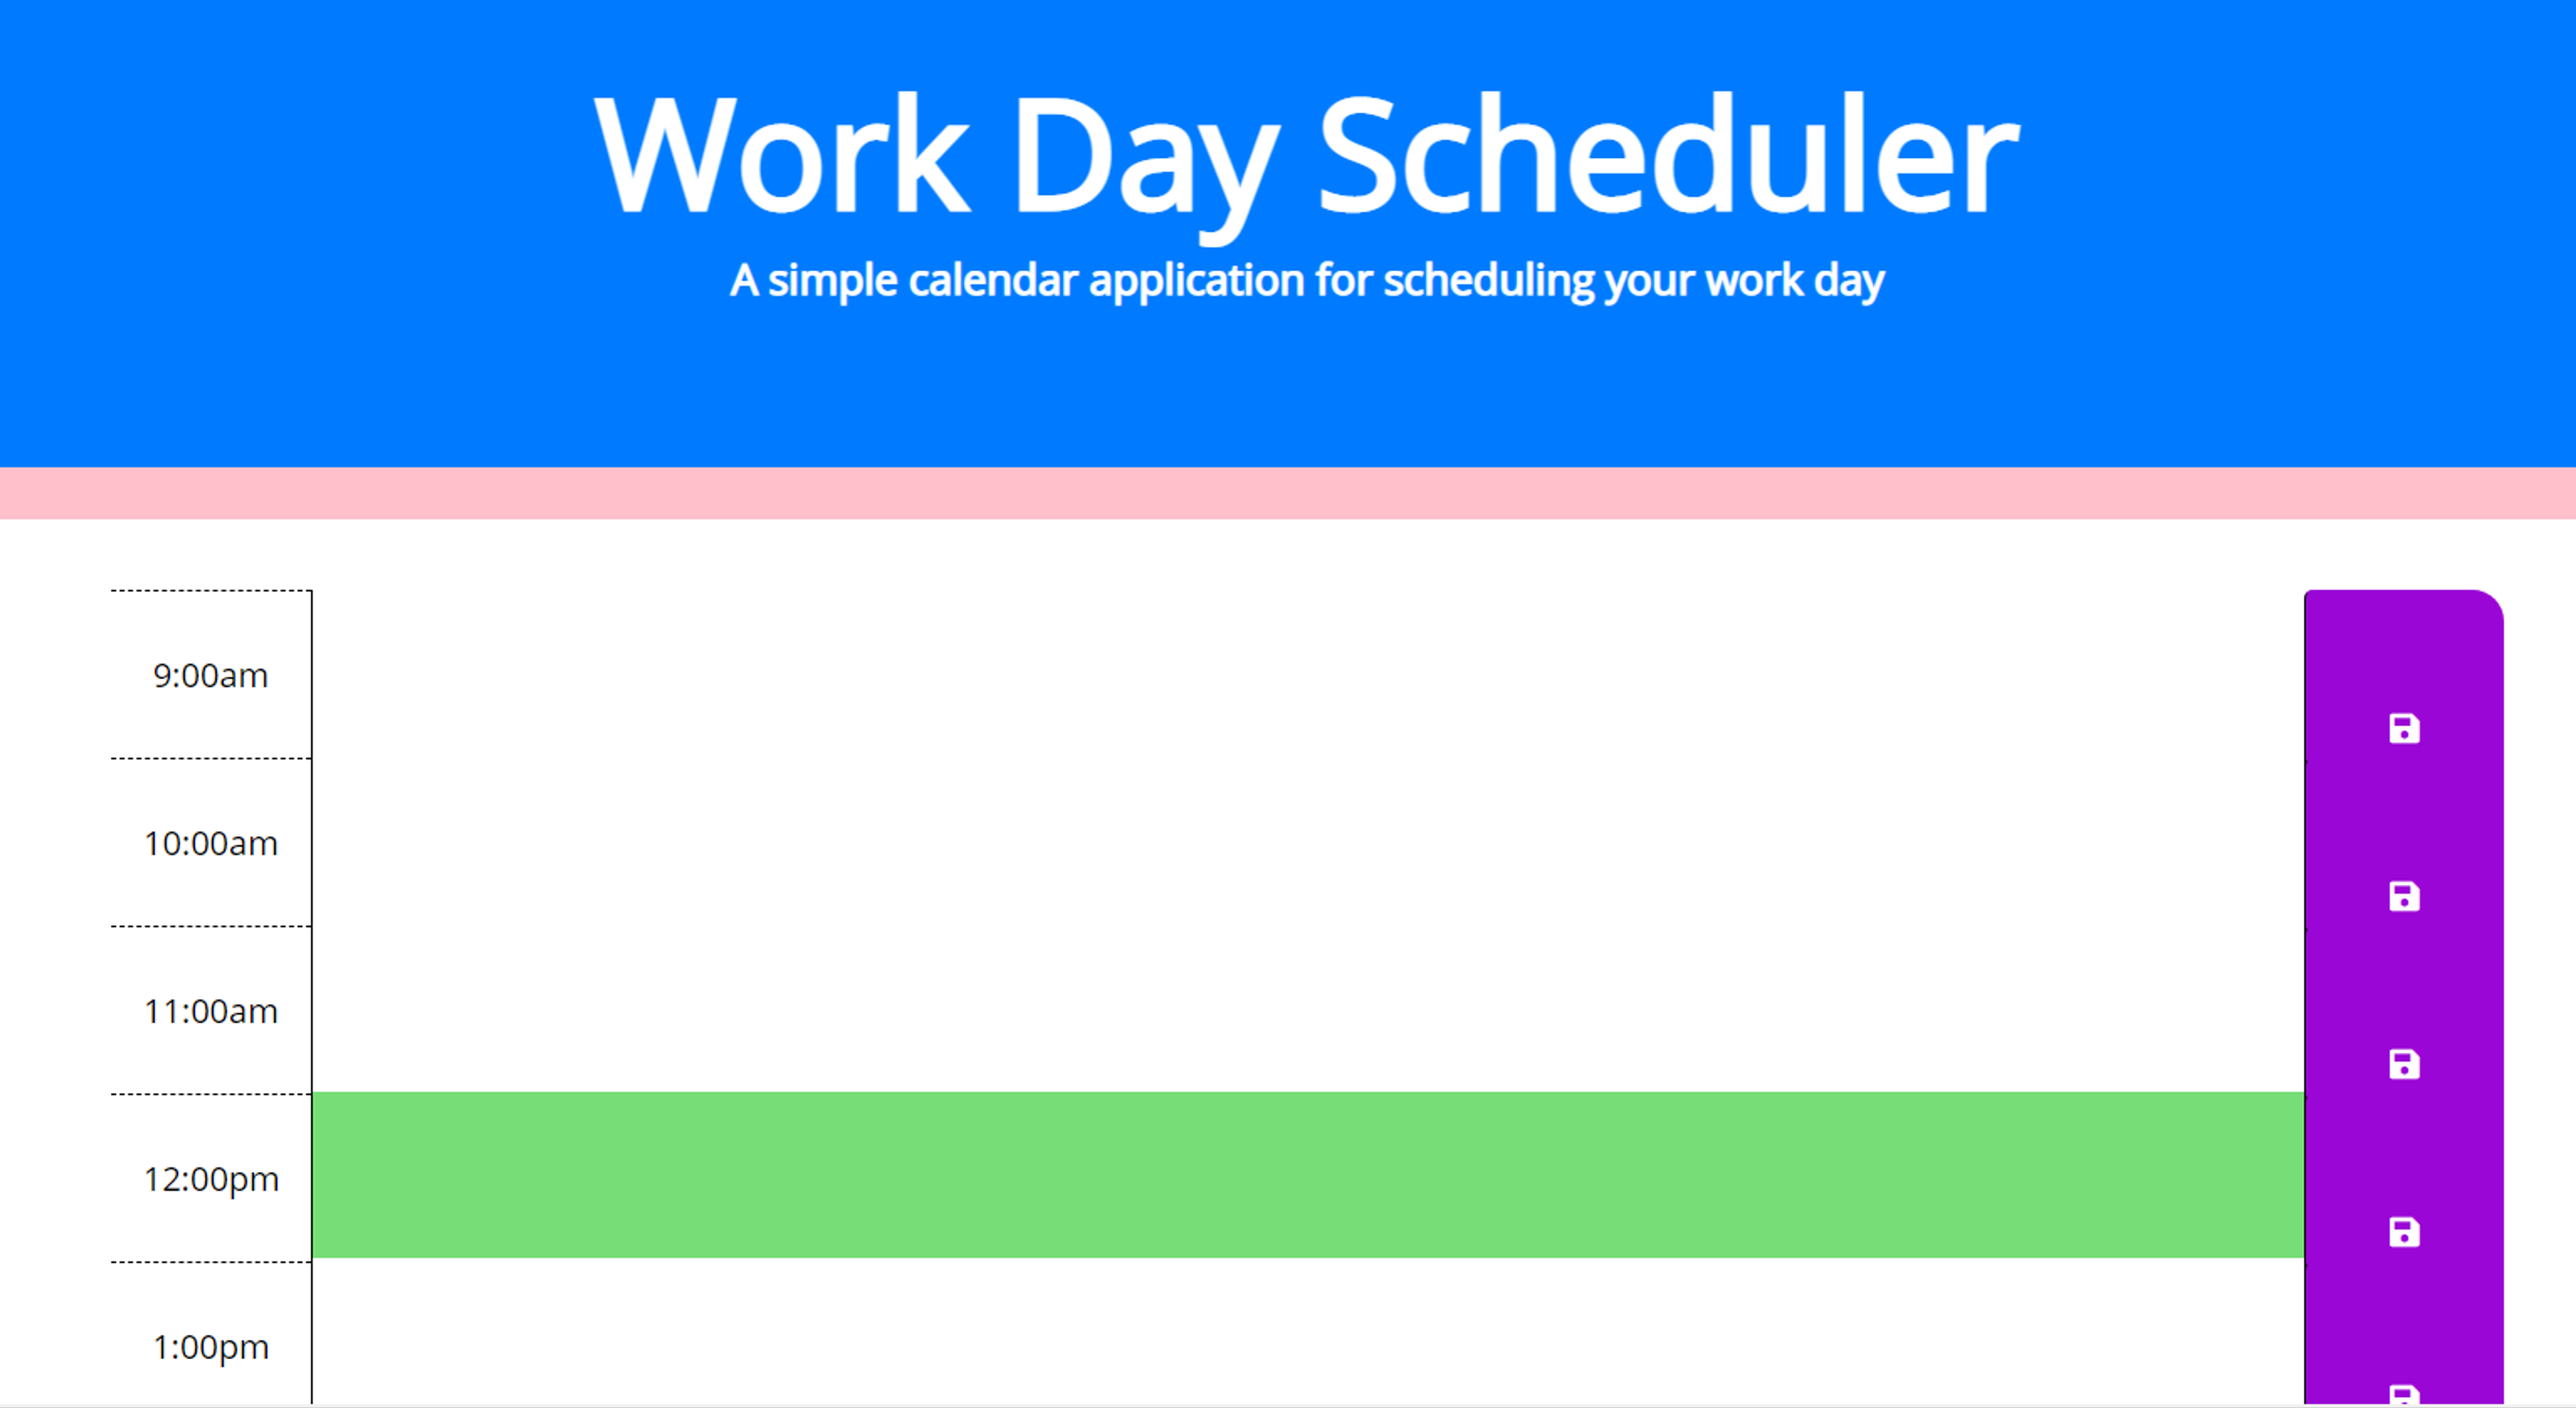
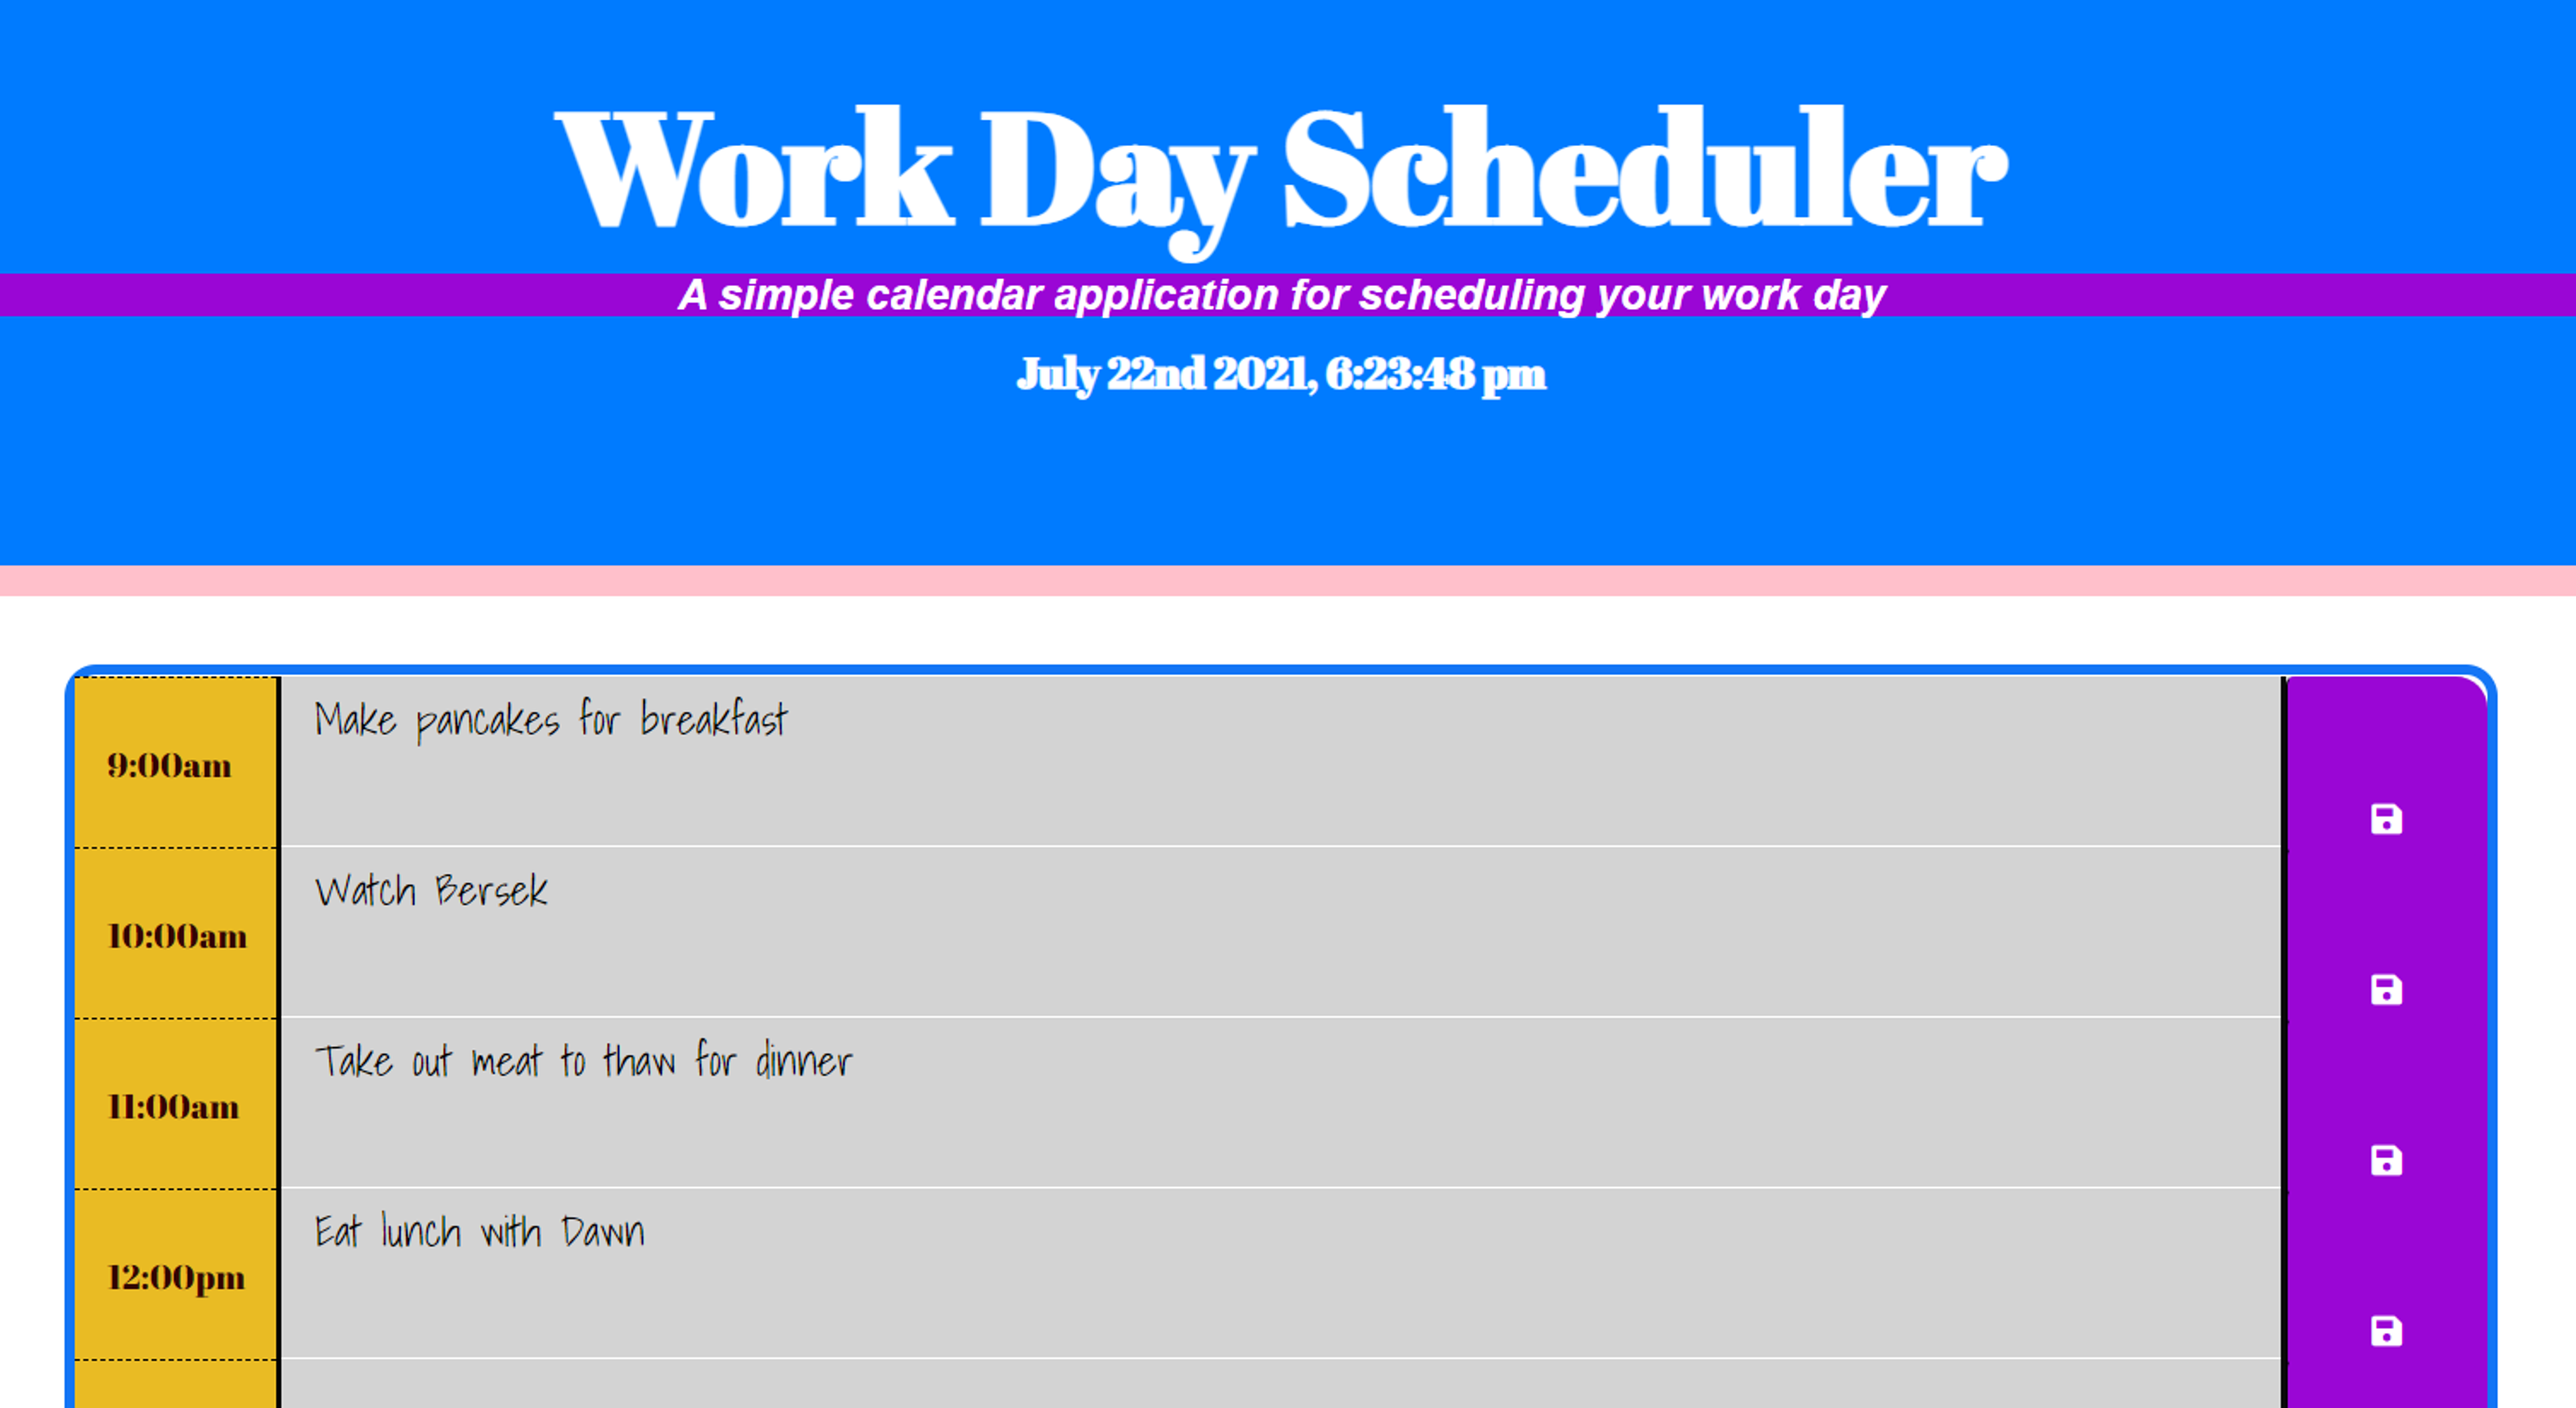
added new image of layout. Tried fixing text areas through css and html edits but couldnt figure it out. need help

diff --git a/index.html b/index.html
@@ -11,6 +11,9 @@
     <link rel="stylesheet" href="https://use.fontawesome.com/releases/v5.8.1/css/all.css"
         integrity="sha384-50oBUHEmvpQ+1lW4y57PTFmhCaXp0ML5d60M1M7uH2+nqUivzIebhndOJK28anvf" crossorigin="anonymous" />
     <link href="https://fonts.googleapis.com/css?family=Open+Sans&display=swap" rel="stylesheet" />
+    <link rel="preconnect" href="https://fonts.googleapis.com">
+    <link rel="preconnect" href="https://fonts.gstatic.com" crossorigin>
+    <link href="https://fonts.googleapis.com/css2?family=Abril+Fatface&family=Shadows+Into+Light&display=swap" rel="stylesheet">
     <link rel="stylesheet" href="style.css" />
    
     <!--Web page title-->
@@ -20,9 +23,9 @@
 <body>
     <!--Bootstrap jumbotron layout-->
     <header class="jumbotron bg-primary">
-        <h1 class="font-weight-bold text-white display-3">Work Day Scheduler</h1>
-        <p class="text-white font-weight-bold lead">A simple calendar application for scheduling your work day</p>
-        <p id="currentDay" class="text-white font-weight-bold lead"></p>
+        <h1 class="font-weight-bold text-white display-3 title">Work Day Scheduler</h1>
+        <p class="text-white font-weight-bold lead" id="subTitle">A simple calendar application for scheduling your work day</p>
+        <p id="currentDay" class="text-white font-weight-bold lead title"></p>
     </header>
     <div class="container">
 
@@ -30,7 +33,7 @@
         
         <div id="hour9" class="row time-block">
             <!--Single hour slot (taking up 1 section of 12)-->
-            <div class="col-md-1 hour">
+            <div class="col-md-1 hour title2">
                 9:00am
             </div>
             <!--Empty space for typing in text (taking up 10 sections of 12)-->
@@ -44,7 +47,7 @@
 
         <div id="hour10" class="row time-block">
             <!--Single hour slot (taking up 1 section of 12)-->
-            <div class="col-md-1 hour">
+            <div class="col-md-1 hour title2">
                 10:00am
             </div>
             <!--Empty space for typing in text (taking up 10 sections of 12)-->
@@ -58,7 +61,7 @@
 
         <div id="hour11" class="row time-block">
             <!--Single hour slot (taking up 1 section of 12)-->
-            <div class="col-md-1 hour">
+            <div class="col-md-1 hour title2">
                 11:00am
             </div>
             <!--Empty space for typing in text (taking up 10 sections of 12)-->
@@ -72,7 +75,7 @@
 
         <div id="hour12" class="row time-block past present future">
             <!--Single hour slot (taking up 1 section of 12)-->
-            <div class="col-md-1 hour">
+            <div class="col-md-1 hour title2">
                 12:00pm
             </div>
             <!--Empty space for typing in text (taking up 10 sections of 12)-->
@@ -84,9 +87,9 @@
             </button>
         </div>
 
-        <div id="hour13" class="row time-block">
+        <div id="hour13" class="row time-block title">
             <!--Single hour slot (taking up 1 section of 12)-->
-            <div class="col-md-1 hour">
+            <div class="col-md-1 hour title2">
                 1:00pm
             </div>
             <!--Empty space for typing in text (taking up 10 sections of 12)-->
@@ -100,7 +103,7 @@
 
         <div id="hour14" class="row time-block">
             <!--Single hour slot (taking up 1 section of 12)-->
-            <div class="col-md-1 hour">
+            <div class="col-md-1 hour title2">
                 2:00pm
             </div>
             <!--Empty space for typing in text (taking up 10 sections of 12)-->
@@ -114,7 +117,7 @@
 
         <div id="hour15" class="row time-block">
             <!--Single hour slot (taking up 1 section of 12)-->
-            <div class="col-md-1 hour">
+            <div class="col-md-1 hour title2">
                 3:00pm
             </div>
             <!--Empty space for typing in text (taking up 10 sections of 12)-->
@@ -128,7 +131,7 @@
 
         <div id="hour16" class="row time-block">
             <!--Single hour slot (taking up 1 section of 12)-->
-            <div class="col-md-1 hour">
+            <div class="col-md-1 hour title2">
                 4:00pm
             </div>
             <!--Empty space for typing in text (taking up 10 sections of 12)-->
@@ -142,7 +145,7 @@
 
         <div id="hour17" class="row time-block">
             <!--Single hour slot (taking up 1 section of 12)-->
-            <div class="col-md-1 hour">
+            <div class="col-md-1 hour title2">
                 5:00pm
             </div>
             <!--Empty space for typing in text (taking up 10 sections of 12)-->

diff --git a/style.css b/style.css
@@ -1,10 +1,36 @@
 /*Ensures entire body of html document has the following presets*/
 body {
-    font-family: 'Open Sans', sans-serif;
-    font-size: 16px;
+    font-family:'Shadows Into Light', cursive;;
+    font-size: 20px;
     line-height: 1;
   }
-  
+
+  /* Adding a border around the container div*/
+.container {
+  margin-bottom: 5%;
+  border: rgb(19, 117, 245) solid 5px;
+  border-radius: 15px;
+}
+
+/* styles font of the biggest title on the page "Work day Scheduler"*/
+.title {
+  font-family:'Abril Fatface', cursive;
+}
+
+/* Styles font of the times in the time slots*/
+.title2 {
+  font-family:'Abril Fatface', cursive; 
+  font-size: medium;
+}
+
+/* Adds custom font and background colour to subtitle*/
+#subTitle {
+  font-family: Arial, Helvetica, sans-serif;
+  font-style: italic;
+  font-size: normal;
+  background-color: #9a06d5;
+}
+
 /* styling for the empty slots where user gets to add their text*/
   textarea{
     background: transparent;
@@ -13,7 +39,7 @@ body {
     color: #000000;
     border-left: 3px solid black;
     border-right: 3px solid rgb(10, 9, 9);
-    padding:5px;
+    padding:10px;
   }
    /* styling for jumbotron layout taken from bootstrap*/
   .jumbotron {
@@ -31,37 +57,40 @@ body {
   
   .time-block{
     text-align: left;
-    border-radius: 20px;
-    color: rebeccapurple;
+    border-radius: 15px;
   }
   
   .row {
     white-space: pre-wrap;
     height: 80px;
-    border-top: .5px solid white;;
+    border-top: 1px solid white;;
   }
   
   .hour {
-    background-color: #ffffff;
-    color: #000000;
+    background-color: rgb(233, 187, 36);
+    color: #330303;
     border-top: 1px dashed #000000;
   }
   
+  /*If the time slot is past current time, it will be shaded grey*/
   .past {
     background-color: #d3d3d3;
     color: white;
   }
   
+  /*If the time slot is the current time, it will be coral/red*/
   .present {
     background-color: #ff6961;
     color: white;
   }
   
+  /* If the time slot is in the futur, it will be green*/
   .future {
     background-color: #77dd77;
     color: white;
   }
   
+  /* The save button is purple, and the icon will be set to white*/
   .saveBtn {
     border-left: 1px solid black;
     border-top-right-radius: 15px;
@@ -70,8 +99,11 @@ body {
     color: white;
   }
   
+  /* on hover, the icon will slowly get bigger and then smaller when the curser exits*/
   .saveBtn i:hover {
-    font-size: 10px;
+    font-size: 25px;
+    color: teal;
     transition: all .3s ease-in-out;
+    cursor: pointer;
   }
   
